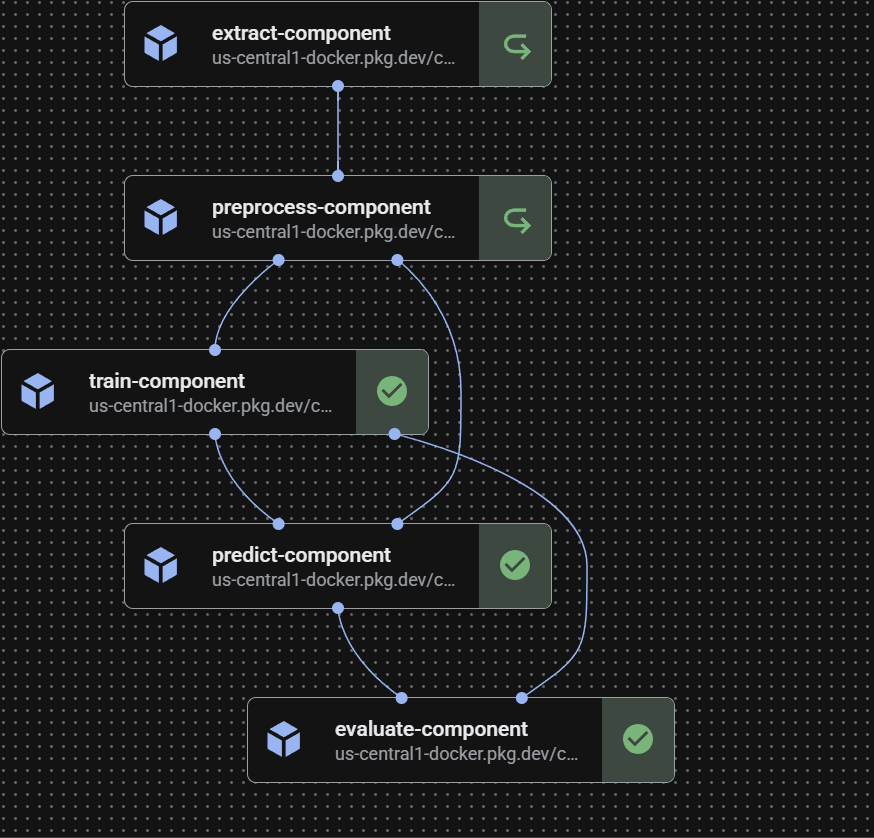
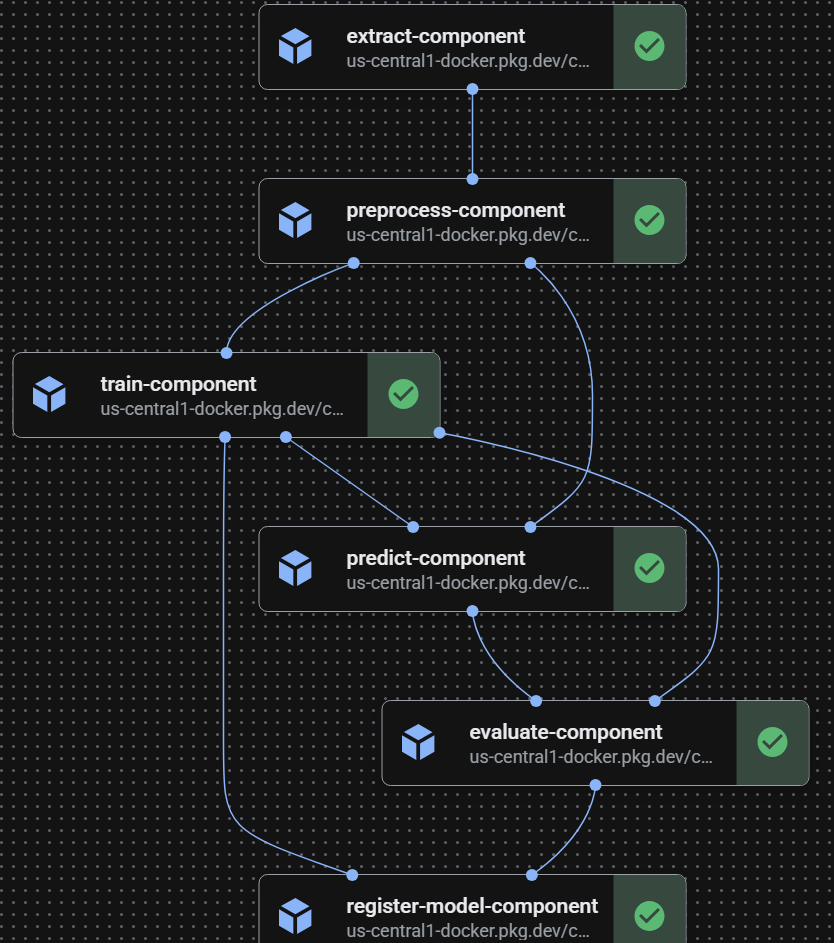
fix: promotion to production issues

Changed region(s): [[0.0, 0.0, 1.0, 1.0]]

diff --git a/pipelines/run_pipeline.py b/pipelines/run_pipeline.py
@@ -106,7 +106,7 @@ def main(cfg: DictConfig) -> None:
         template_path=COMPILED_PATH,
         pipeline_root=get_vertex_pipeline_root(cfg),
         parameter_values=_build_parameter_values(cfg),
-        enable_caching=True,
+        enable_caching=cfg.get("enable_caching", True),
     )
 
     job.submit(service_account=cfg.environment.vertex_ai_sa)